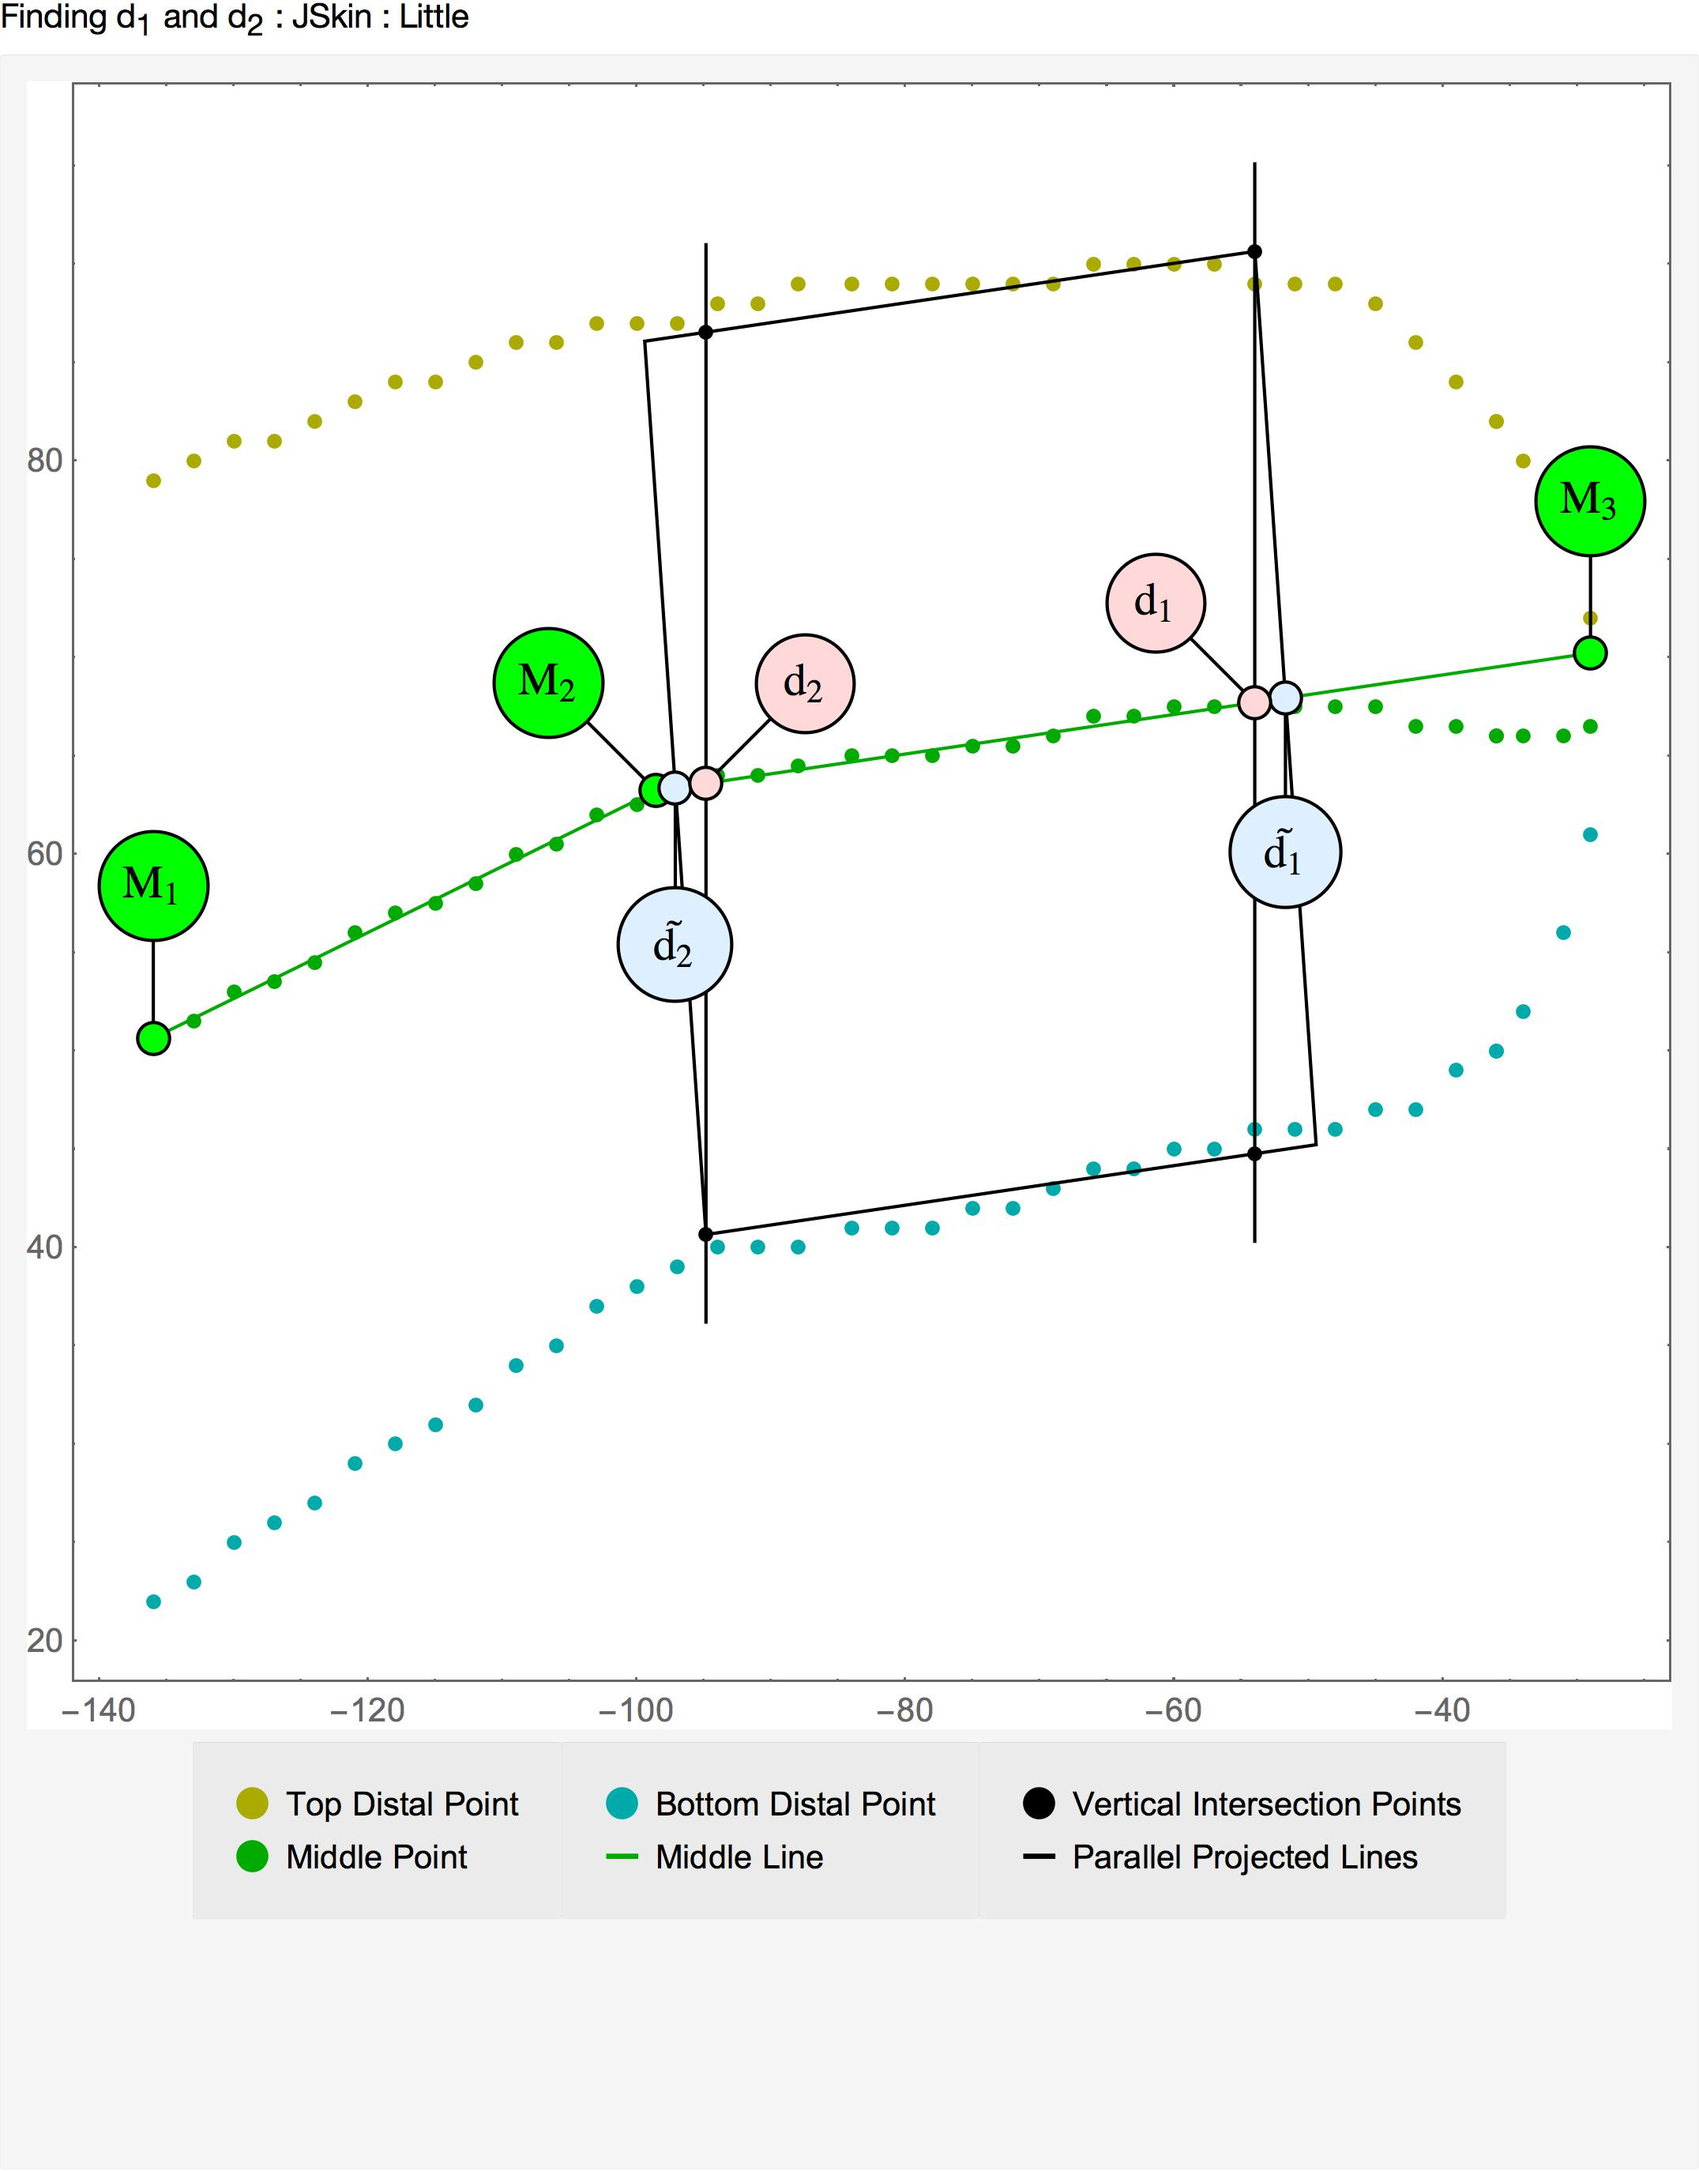
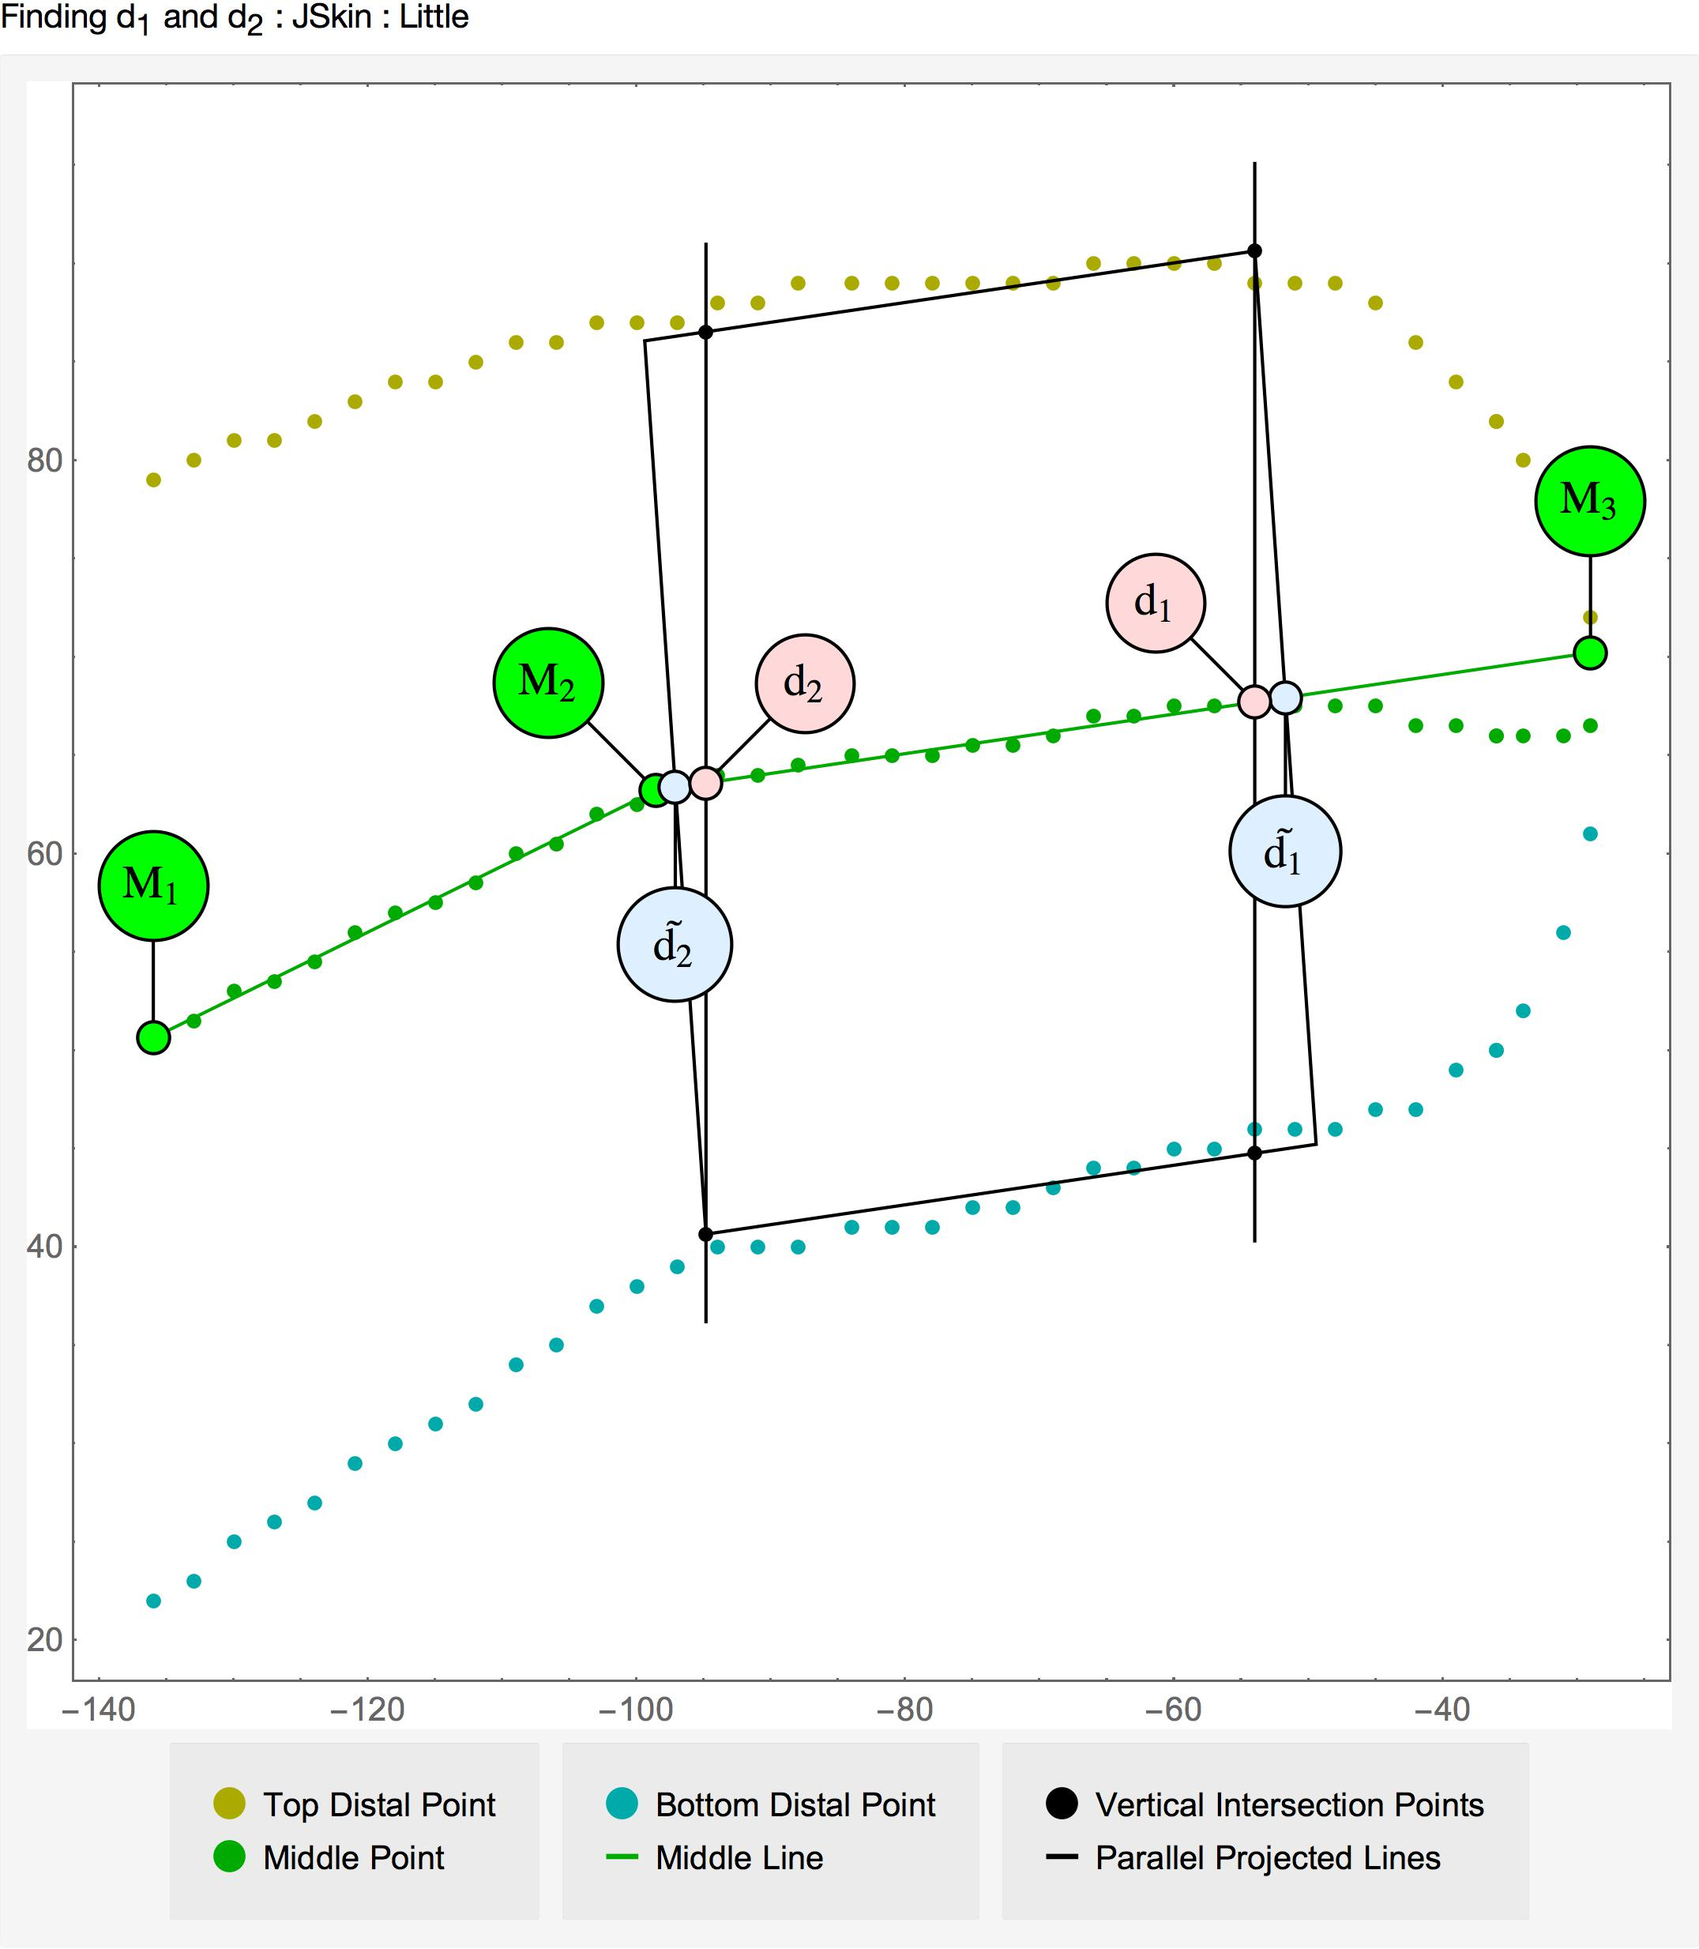
FIg Fix

diff --git a/WriteUp/Dissertation/Chapter4/chapter4.tex b/WriteUp/Dissertation/Chapter4/chapter4.tex
@@ -473,10 +473,10 @@ From the kink fit, we have a midline, which is specified by three points. We now
     \parbox[b][0.5\textwidth][s]{0.55\textwidth}{
    \textbf{a) Determining $d_1$ \& $d_2$.}  We have a midline which is given as two points $M_2$ \& $M_3$; one somewhere on the digit ($M_2$), and the other at the tip ($M_3$). If the finger were straight in the frame, then $d_1=\tilde{d_1}$ and $d_2=\tilde{d_2}$ could easily be found by finding the points on that line. However, the fact that the digit can be presented at an angle means that the edge points vertically above and below the point on the midline may include part of the curved tip. This has the effect of making these midpoints diverge from the midline of the digit. This can be corrected by adjusting with half the gradient of the midline $\delta\:mid$ to the ratios. \begin{equation*}distance \:on \:line = (\frac{1}{2} + \frac{1}{2}\delta\:mid)w\end{equation*} \vfill
     } \\ 
-    \parbox[b][0.4\textwidth][s]{0.45\textwidth}{
+    \parbox[b][0.5\textwidth][s]{0.45\textwidth}{
              \textbf{b) A New Midline Fit} --- We take the set of midline points, extract the subset which lies between $d_1$ and $d_2$, and then apply a straight line fit to these points. The origin is the fit evaluated at the $x$ component of $d_2$, and we determine an orientation $\theta$, which is $\arctan$ the gradient of the linear model. \vfill
         } &
-        \includegraphics[width=0.55\textwidth, height=0.4\textwidth]{Chapter4/Figs/Model_Midline_JSkin_Little.jpg} 
+        \includegraphics[width=0.55\textwidth, height=0.5\textwidth]{Chapter4/Figs/Model_Midline_JSkin_Little.jpg} 
     \\ 
    \includegraphics[width=0.45\textwidth, height=0.5\textwidth]{Chapter4/Figs/Model_NeutralCoords_JSkin_Little.jpg} &
     \parbox[b][0.5\textwidth][s]{0.55\textwidth}{
@@ -497,7 +497,7 @@ From the kink fit, we have a midline, which is specified by three points. We now
   \end{center}
   \phantomcaption
 \end{wrapfigure}
-         \textbf{d) Fitting the Shapes} --- The comparison between the methods is done by looking at the distance from the front two points on the trapezian to the edge of the ellipse, and the best of these is chosen. Unfortunately, this is often not sufficient to make the ellipse join with the trapezian exactly because further on in the algorithm, these shapes will be used to perform a mask; we want to avoid introducing artifacts which could be interpreted as features. So, we wish to remove these discontinuous intersections between the ellipse and the trapezian. In order to do this, we choose three points on the Elliptical fit and the two front points of the trapezian, thereby making a set of five points, and we pass these through the direct Elliptical fit algorithm. It should be noted that five points is what is required to completely define an ellipse; there is only one ellipse which will pass through five points.
+         \textbf{d) Fitting the Shapes} --- The comparison between the elliptical fit methods is done by looking at the distance from the front two points on the trapezium to the edge of the ellipse, and the best of these is chosen. Unfortunately, this is often not sufficient to make the ellipse join with the trapezium exactly because further on in the algorithm, these shapes will be used to perform a mask; we want to avoid introducing artefacts which could be interpreted as features. So, we wish to remove these discontinuous intersections between the ellipse and the trapezium. In order to do this, we choose three points on the Elliptical fit and the two front points of the trapezium, thereby making a set of five points, and we pass these through the direct Elliptical fit algorithm. It should be noted that five points is what is required to completely define an ellipse; there is only one ellipse which will pass through five points.
     \end{minipage}
     \subfloat{\includegraphics[width=0.99\textwidth]{Chapter4/Figs/Model_Finalizing_JSkin_Little.jpg}}\\
     \begin{minipage}{0.95\textwidth}
